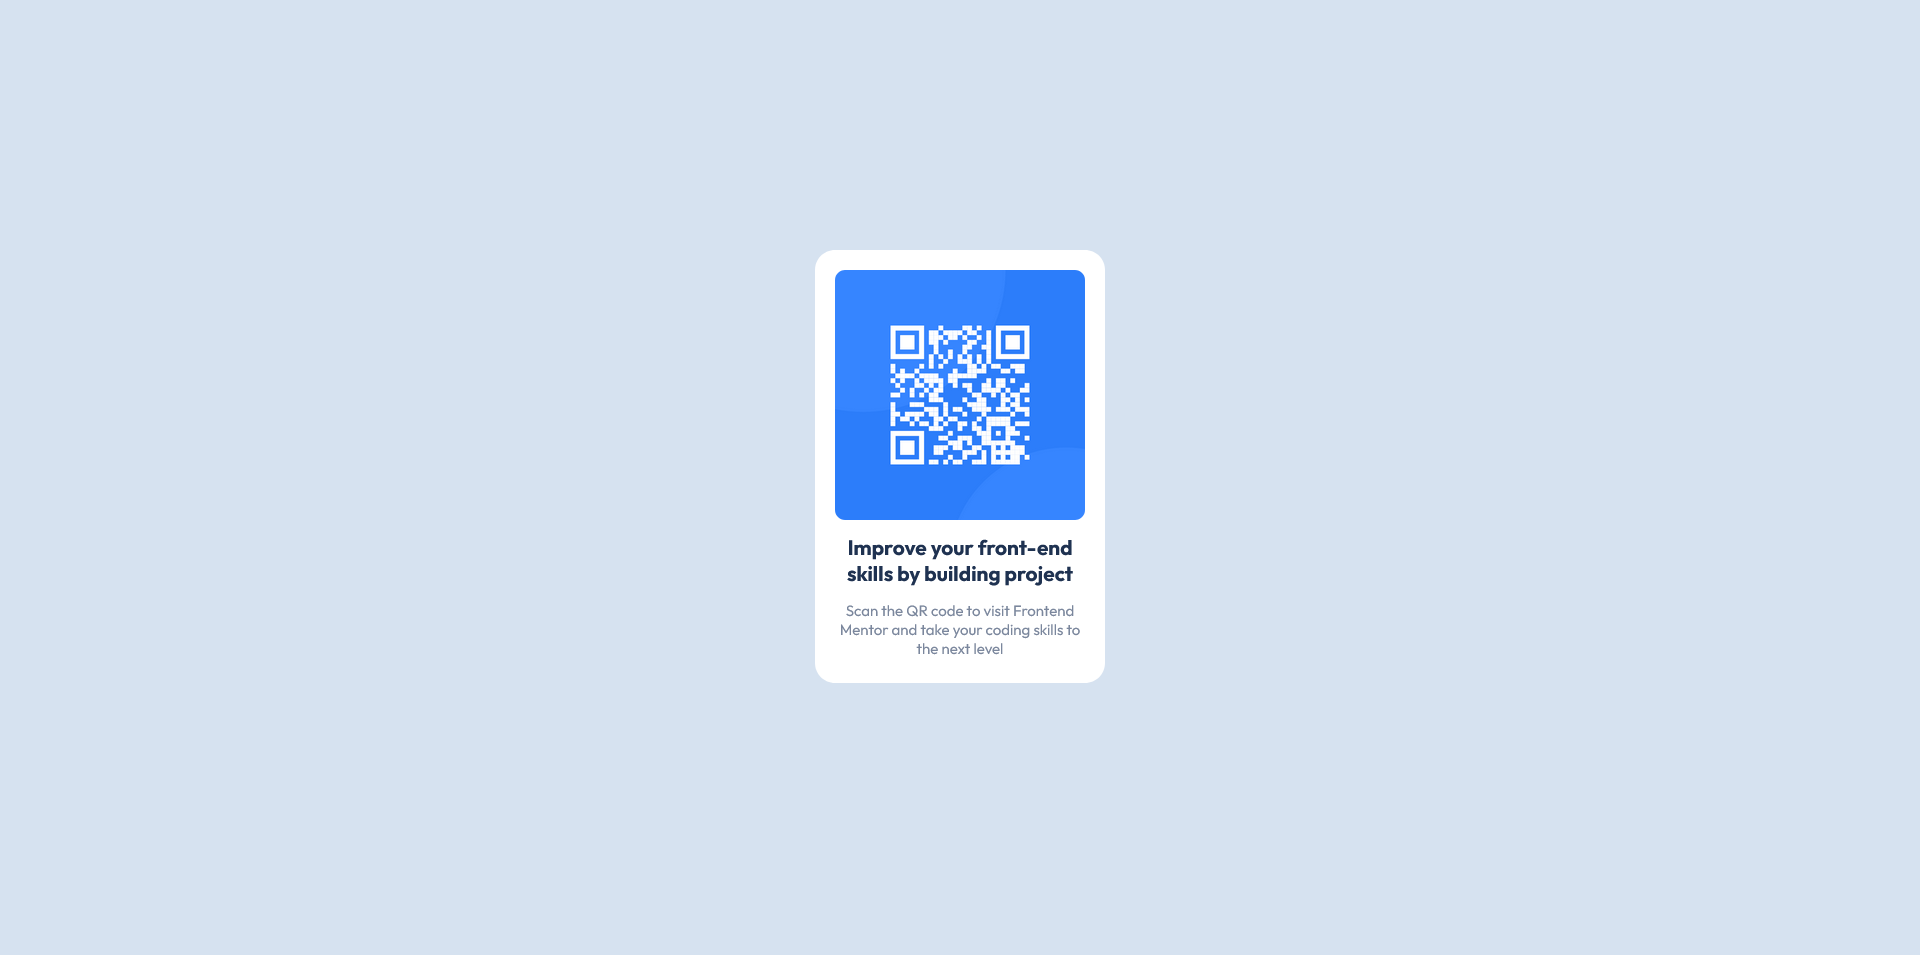
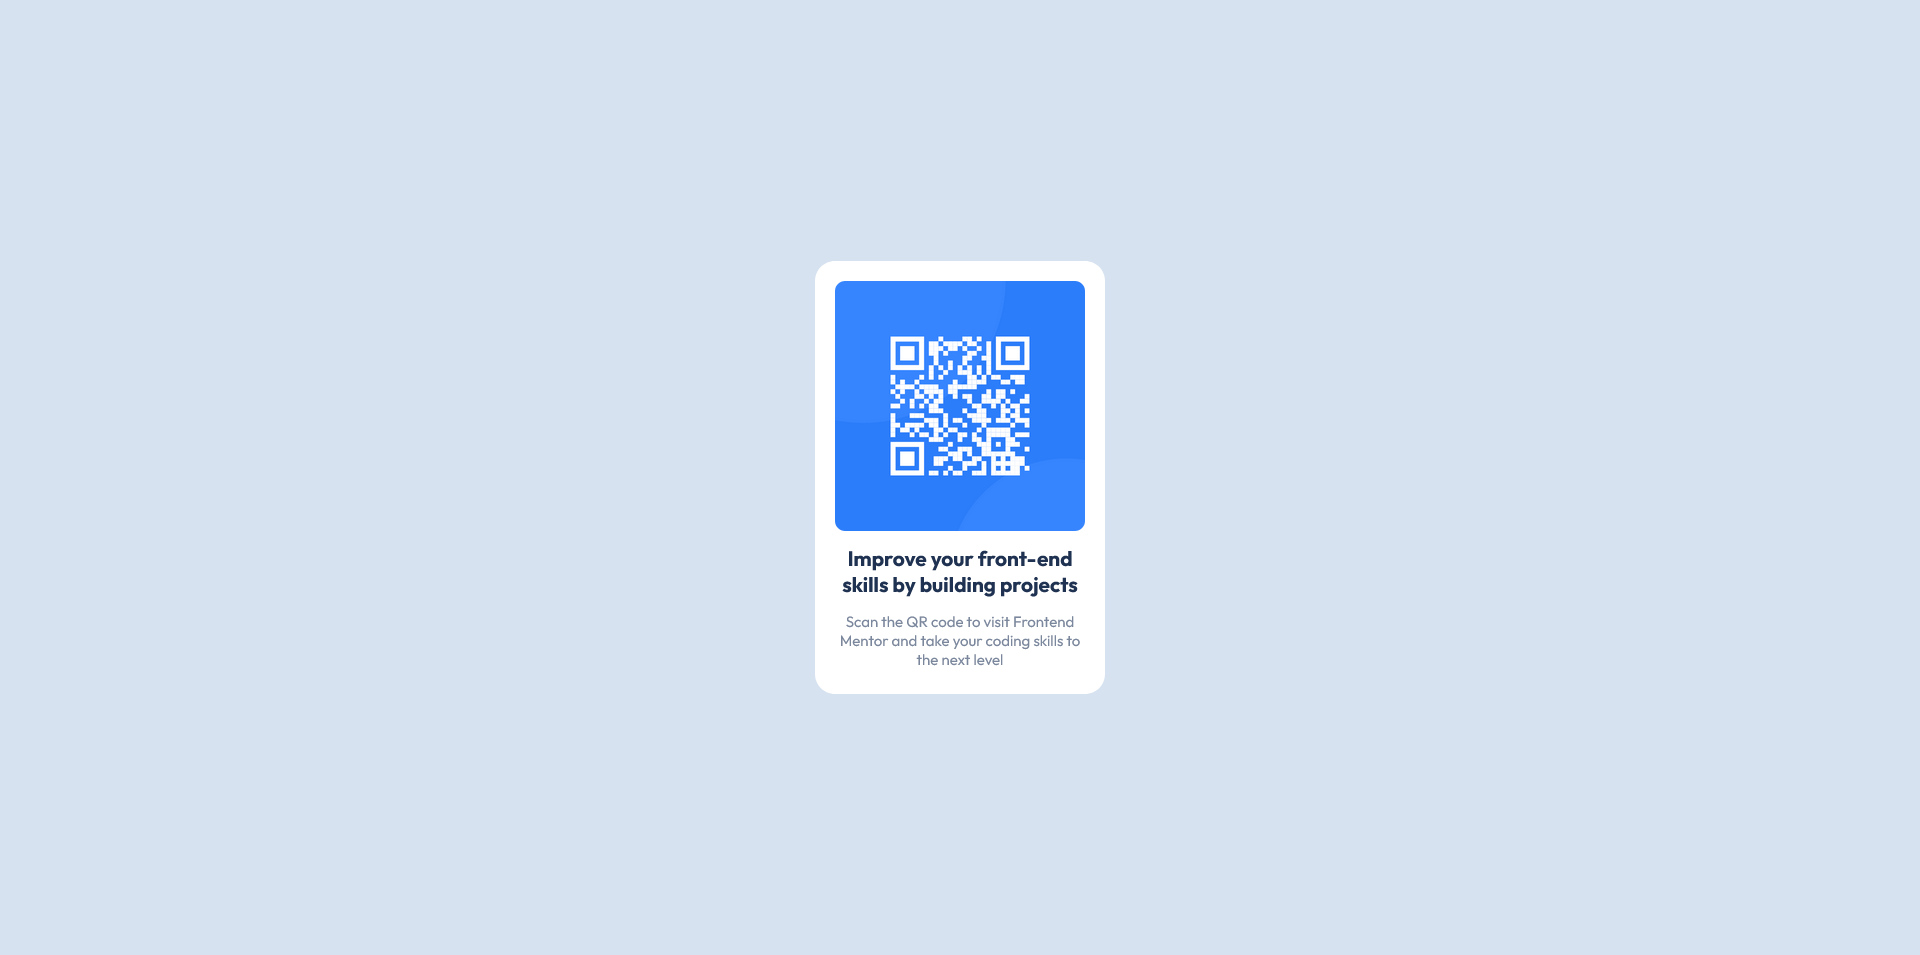
Added flexbox

Changed region(s): [[0.4062, 0.5466, 0.5938, 0.7288], [0.4688, 0.334, 0.5625, 0.5162], [0.4062, 0.2429, 0.5938, 0.3037]]

diff --git a/style.css b/style.css
@@ -20,6 +20,10 @@ body {
     background-color: var(--light-gray);
     font-size: var(--font-size);
     font-family: var(--font-family);
+    height: 100vh;
+    display: flex;
+    justify-content: center;
+    align-items: center;
 }
 
 h2 {
@@ -36,7 +40,6 @@ p {
 .card {
     background-color: var(--white);
     max-width: 290px;
-    margin: 250px auto;
     padding: 20px;
     text-align: center;
     border-radius: 20px;
@@ -47,12 +50,6 @@ img {
     width: 250px;
     height: 250px;
     border-radius: 10px;
-}
-
-@media(max-height: 675px){
-    .card {
-        margin: auto;
-    }
 }
 
     

diff --git a/README.md b/README.md
@@ -1,7 +1,7 @@
 
 # Frontend Mentor - QR code component solution
 
-This is a solution to the [QR code component challenge on Frontend Mentor](https://www.frontendmentor.io/challenges/qr-code-component-iux_sIO_H). Made completely without CSS Grid of Flexbox.
+This is a solution to the [QR code component challenge on Frontend Mentor](https://www.frontendmentor.io/challenges/qr-code-component-iux_sIO_H). 
 
 ## Overview
 
@@ -17,7 +17,7 @@ This is a solution to the [QR code component challenge on Frontend Mentor](https
 
 ### Links
 
-- [Solution URL](https://www.frontendmentor.io/solutions/qr-code-component-wo-css-grid-or-flexbox-mAqXGm7GLD)
+- [Solution URL]()
 - [Live Site URL](https://lawsoflloyd.github.io/qr-code-component/)
 
 ## Author
